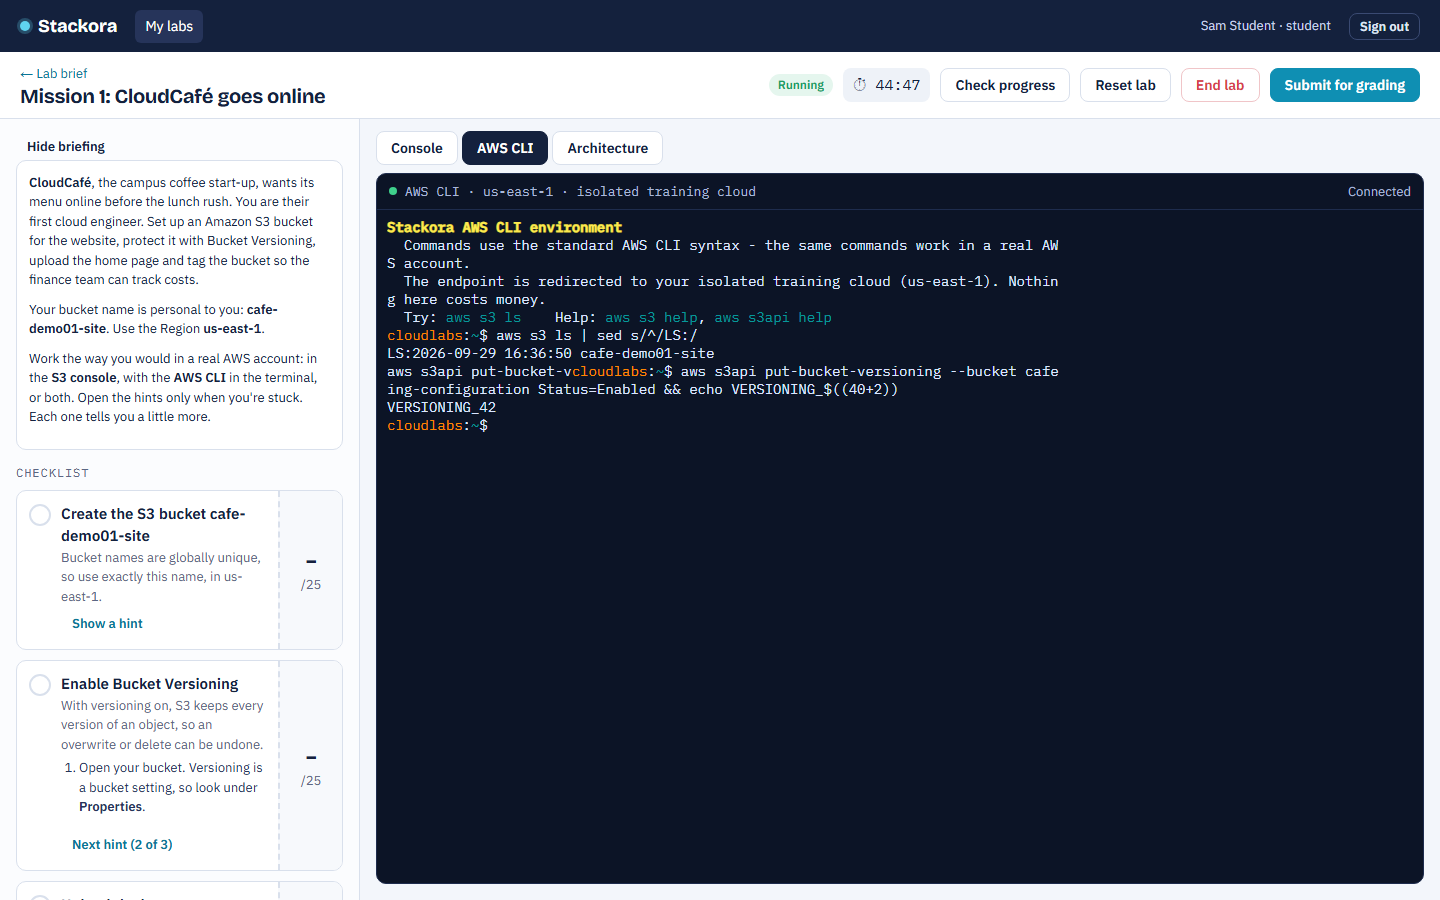
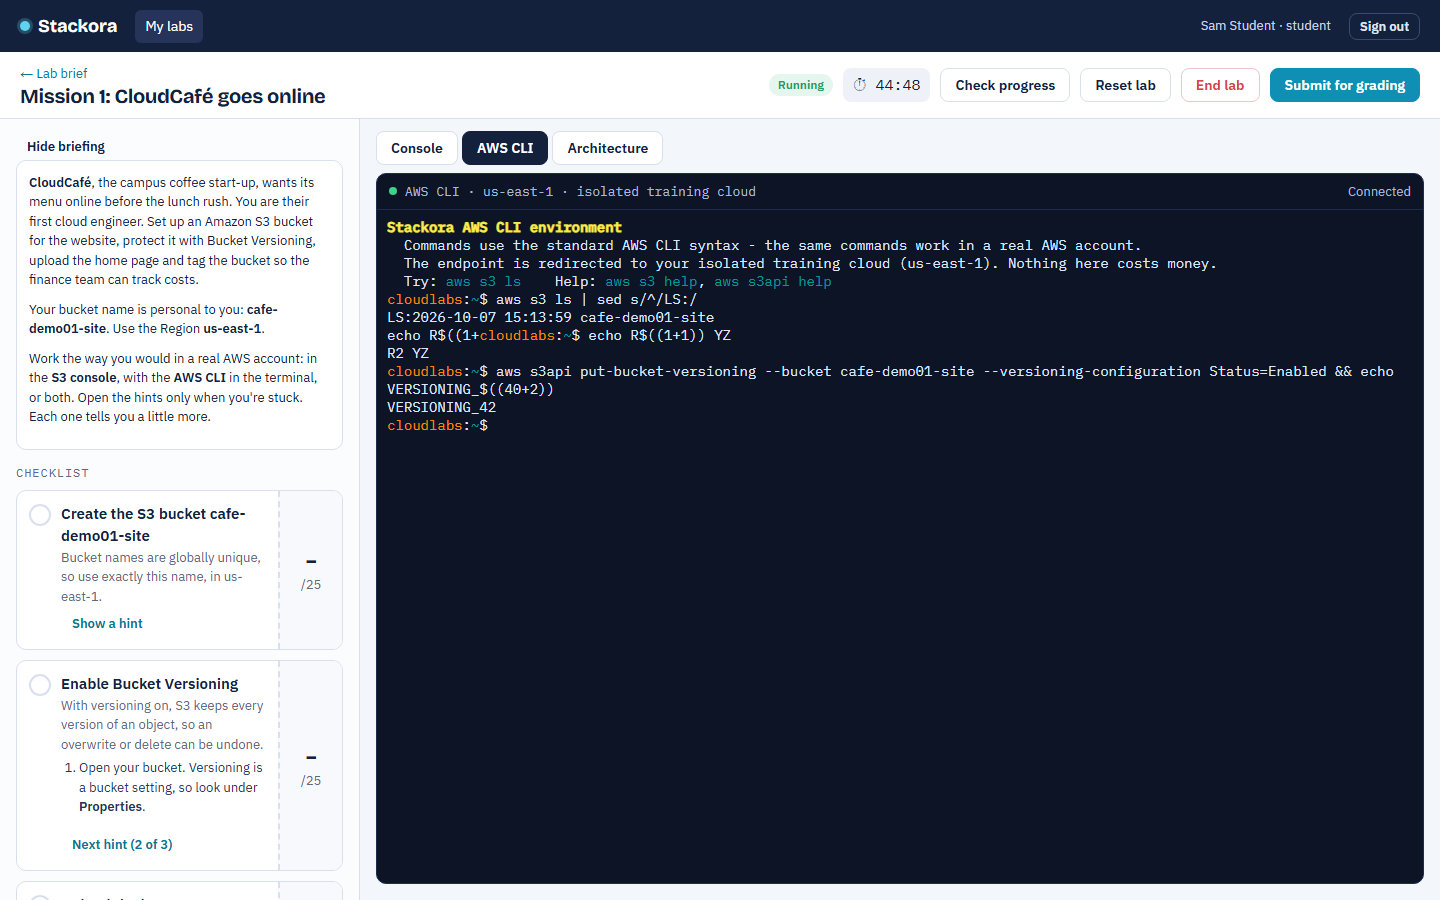
feat(web): upgrade to xterm.js 6 and make the terminal fill its panel
@xterm/xterm 6.0.0 and @xterm/addon-fit 0.11.0. Checking the breaking
changes exposed two problems:

- The rewritten viewport is styled black and no longer painted with the
  theme; it now uses the shared TERM_BG.
- Pre-existing: the terminal never fitted its panel and stayed at the
  default 80x24 (65% of the width), because fit() ran once on mount and then
  only on window resize. A ResizeObserver now refits on any host size
  change, and the padding moved to a wrapper because FitAddon measures the
  border-box host and computed one row too many.

Alt+arrow needs no change: xterm 6 sends ESC[1;3D/C, which bash 5.2's
readline binds by default. journey.spec.ts now checks the Alt+Left word
jump, scrolling back through 120 lines with ordinary wheel notches, and that
the terminal fills its panel without overflow (fails on main: 0.65 < 0.9).

Verified: tsc clean, npm audit 0, full browser E2E 35/35 (STATUS M14).

Changed region(s): [[0.25, 0.2489, 0.9688, 0.4667]]

diff --git a/apps/web/components/terminal.tsx b/apps/web/components/terminal.tsx
@@ -4,6 +4,7 @@ import "@xterm/xterm/css/xterm.css";
 import { api, ApiError } from "@/lib/api";
 
 type Status = "connecting" | "open" | "reconnecting" | "closed";
+const TERM_BG = "#0c1426";
 const FINAL: Record<string, string> = {
   submitted: "Lab submitted. The terminal is closed.",
   reset: "Lab reset. Reconnecting when your fresh sandbox is ready…",
@@ -27,7 +28,7 @@ export function Terminal({ sessionId, active }: { sessionId: string; active: boo
     let timer: ReturnType<typeof setTimeout> | undefined;
     let term: import("@xterm/xterm").Terminal | undefined;
     let fit: import("@xterm/addon-fit").FitAddon | undefined;
-    let onResize: (() => void) | undefined;
+    let sizer: ResizeObserver | undefined;
 
     (async () => {
       const [{ Terminal: XTerm }, { FitAddon }] = await Promise.all([import("@xterm/xterm"), import("@xterm/addon-fit")]);
@@ -35,7 +36,7 @@ export function Terminal({ sessionId, active }: { sessionId: string; active: boo
       const mono = getComputedStyle(document.documentElement).getPropertyValue("--f-mono").trim();
       term = new XTerm({
         fontFamily: `${mono ? `${mono}, ` : ""}Consolas, monospace`, fontSize: 14, cursorBlink: true,
-        theme: { background: "#0c1426", foreground: "#dbe6ff", cursor: "#5fd3f0", selectionBackground: "#26406f" },
+        theme: { background: TERM_BG, foreground: "#dbe6ff", cursor: "#5fd3f0", selectionBackground: "#26406f" },
         scrollback: 3000, allowProposedApi: false,
       });
       fit = new FitAddon();
@@ -44,8 +45,10 @@ export function Terminal({ sessionId, active }: { sessionId: string; active: boo
       fit.fit();
       term.onData((d) => ws?.readyState === WebSocket.OPEN && ws.send(JSON.stringify({ t: "i", d })));
       term.onResize(({ cols, rows }) => ws?.readyState === WebSocket.OPEN && ws.send(JSON.stringify({ t: "r", c: cols, r: rows })));
-      onResize = () => fit?.fit();
-      window.addEventListener("resize", onResize);
+      // Refit whenever the host box changes size (first layout, tab switches, panel and window resizes):
+      // a single fit() on mount can run before the panel has its final size and leave the default 80x24.
+      sizer = new ResizeObserver(() => fit?.fit());
+      sizer.observe(host.current);
       connect();
     })();
 
@@ -87,7 +90,7 @@ export function Terminal({ sessionId, active }: { sessionId: string; active: boo
     return () => {
       disposed = true;
       clearTimeout(timer);
-      if (onResize) window.removeEventListener("resize", onResize);
+      sizer?.disconnect();
       ws?.close();
       term?.dispose();
     };
@@ -106,7 +109,7 @@ export function Terminal({ sessionId, active }: { sessionId: string; active: boo
         {status === "closed" && active && <button className="small" onClick={() => { setNote(null); setNonce((n) => n + 1); }}>Reconnect</button>}
       </div>
       {note && <div className="term-note small">{note}</div>}
-      <div ref={host} className="term-host" data-testid="terminal" />
+      <div className="term-body"><div ref={host} className="term-host" data-testid="terminal" /></div>
       <style>{`
         .term-wrap { display: flex; flex-direction: column; height: 100%; background: var(--terminal); border-radius: var(--radius); overflow: hidden; border: 1px solid #1e2c4d; }
         .term-bar { display: flex; align-items: center; gap: 8px; padding: 8px 12px; color: #aab8d8; border-bottom: 1px solid #1e2c4d; }
@@ -115,8 +118,13 @@ export function Terminal({ sessionId, active }: { sessionId: string; active: boo
         .term-dot.open { background: #3fd08c; } .term-dot.reconnecting, .term-dot.connecting { background: #f2c14e; }
         .term-dot.closed { background: #e5484d; }
         .term-note { background: #1a2542; color: #f2d58a; padding: 6px 12px; }
-        .term-host { flex: 1; min-height: 0; padding: 8px 4px 4px 10px; }
+        /* Padding lives on the wrapper: FitAddon measures the host, and with border-box sizing a padded host
+           would yield one row too many (the last row clipped). */
+        .term-body { flex: 1; min-height: 0; display: flex; padding: 8px 4px 4px 10px; }
+        .term-host { flex: 1; min-height: 0; min-width: 0; }
         .term-host .xterm { height: 100%; }
+        /* xterm.js 6 styles the viewport black and no longer paints it with the theme background */
+        .term-host .xterm .xterm-viewport { background-color: ${TERM_BG}; }
       `}</style>
     </div>
   );

diff --git a/apps/web/e2e/journey.spec.ts b/apps/web/e2e/journey.spec.ts
@@ -70,8 +70,38 @@ test.describe.serial("student journey (GUI + CLI) and instructor evidence", () =
     await expect(page.locator(".xterm-rows")).toContainText("Stackora AWS CLI environment");
     await termRun(page, "aws s3 ls | sed s/^/LS:/", `LS:`);
     await expect(page.locator(".xterm-rows")).toContainText(new RegExp(`LS:.*${BUCKET}`));
+    // Alt+Left jumps back one word. xterm.js 6 sends ESC[1;3D (it no longer rewrites Alt+arrow to Ctrl+arrow)
+    // and bash 5.2's readline binds that by default. The cursor lands before "Z", so the output reads
+    // "R2 YZ" only if the jump happened.
+    await page.keyboard.type("echo R$((1+1)) Z", { delay: 5 });
+    await page.keyboard.press("Alt+ArrowLeft");
+    await page.keyboard.type("Y");
+    await page.keyboard.press("Enter");
+    await expect(page.locator(".xterm-rows")).toContainText("R2 YZ", { timeout: 30_000 });
     await termRun(page, `aws s3api put-bucket-versioning --bucket ${BUCKET} --versioning-configuration Status=Enabled && echo VERSIONING_$((40+2))`, "VERSIONING_42");
     await shot(page, "03-terminal");
+    // Scrollback works with xterm.js 6's rewritten viewport: only visible rows are in the DOM, so early lines
+    // of a long output come back only by scrolling up.
+    await termRun(page, "seq 1 120 | sed 's/^/LINE-/'", "LINE-120");
+    await expect(page.locator(".xterm-rows")).not.toContainText(/LINE-3(?!\d)/);
+    await page.locator(".xterm-screen").hover();
+    await expect(async () => {
+      for (let i = 0; i < 10; i++) await page.mouse.wheel(0, -100);  // ordinary wheel notches
+      await expect(page.locator(".xterm-rows")).toContainText(/LINE-3(?!\d)/, { timeout: 1_000 });
+    }).toPass({ timeout: 30_000 });
+    await expect(async () => {
+      for (let i = 0; i < 10; i++) await page.mouse.wheel(0, 100);
+      await expect(page.locator(".xterm-rows")).toContainText("LINE-120", { timeout: 1_000 });
+    }).toPass({ timeout: 30_000 });
+    // The terminal fills its panel (it used to stay at the default 80x24): the text area spans most of the
+    // terminal box and never overflows it, so no row is clipped.
+    const fill = await page.evaluate(() => {
+      const box = document.querySelector(".xterm")!.getBoundingClientRect();
+      const screen = document.querySelector(".xterm-screen")!.getBoundingClientRect();
+      return { w: screen.width / box.width, overflow: screen.height - box.height };
+    });
+    expect(fill.w).toBeGreaterThan(0.9);
+    expect(fill.overflow).toBeLessThanOrEqual(0);
     await termRun(page, `echo '<h1>CloudCafe</h1>' > index.html && aws s3 cp index.html s3://${BUCKET}/ && echo UPLOADED_$((40+2))`, "UPLOADED_42");
 
     // 3) GUI proves the CLI changes.

diff --git a/docs/STATUS.md b/docs/STATUS.md
@@ -137,6 +137,7 @@ Legend: ☐ todo · ◐ in progress · ☑ done + verified (evidence noted)
 | M11 | Bundled web fonts: `next/font/google` → `next/font/local` with the latin subsets from Fontsource 5.3.0 (IBM Plex Sans 400/500/600, Plex Mono 400/500, Bricolage Grotesque variable) in `apps/web/app/fonts` + their OFL licences; THIRD_PARTY_NOTICES updated | ☑ | Removes the build-time Google Fonts download that failed PR #3's first CI run. `next build` passes **inside a container with `--network none`** (6 woff2 in the output); in the browser all 6 are served by the app (200), faces load, **0 requests to Google**. `tsc` clean. `.gitattributes` marks `*.woff2` binary (the files were already stored byte-identical). **Full browser E2E 35/35** (14.5 min); PR #3 CI all four jobs green — 2026-10-06 |
 | M12 | WebSocket server off the deprecated legacy implementation: API (`entrypoint.sh`) and runner (`Dockerfile`) run uvicorn with `--ws websockets-sansio`; the two in-process test servers too. pytest in both services turns the three legacy-websockets deprecations into **errors** | ☑ | The default `ws=auto` picked the legacy `websockets` server (deprecated since websockets 14; every Docker test run printed it). Our own code already uses the new asyncio client (`websockets.connect`). Guard proven both ways in the API container: `ws="websockets"` → test fails on `websockets.legacy is deprecated`, `ws="websockets-sansio"` passes. Running API: `uvicorn … --ws websockets-sansio`. Runner suite **31 passed** (Docker). API WebSocket files (`test_integration_docker`, `test_lab_preview`, `test_fleet`) **22 passed** (a first run failed `test_two_real_runners…` 15 s after runner2 started; passes alone and in the full re-run). E2E journey/fleet/lab-builder **8 passed**, then the **full browser E2E 35/35** (13.0 min, runner-local-2 registered) — 2026-10-07. Follow-up, not done: Starlette 1.x warns that its `TestClient` wants `httpx2` (runner tests only) |
 | M13 | Gateway on the supported **nginx stable line**: `nginx:1.27-alpine` → `nginx:1.30-alpine` (1.30.5); production inherits it | ☑ | 1.27 no longer receives fixes (nginx patches only mainline 1.31 and stable 1.30), and in production the gateway is the only internet-facing component (TLS, API, terminal WebSockets). `nginx -t` clean with no warnings on both configs. **Live production-config smoke test on 1.30** with a throwaway certificate on the stack network: `/healthz` and `/login` 200 over **HTTP/2**, `/api/…` 200, HTTP → 301 `https://…`, HSTS / nosniff headers present, version hidden, TLS ≤ 1.1 refused. Dev gateway recreated on 1.30.5. **Full browser E2E 35/35** through the 1.30 gateway (14.1 min, runner-local-2 registered) — 2026-10-07 |
+| M14 | **xterm.js 6** (`@xterm/xterm` 6.0.0, `@xterm/addon-fit` 0.11.0) + two terminal fixes it exposed | ☑ | Breaking changes checked against `components/terminal.tsx`: no removed option in use (`overviewRulerWidth`, `windowsMode`, `fastScrollModifier`, canvas renderer). Alt+arrow: xterm 6 sends `ESC[1;3D/C` (no Ctrl rewrite) and bash 5.2's readline binds that by default (`bind -q backward-word`), so no image change. **Found and fixed:** (1) the rewritten viewport is styled black and no longer painted with the theme — now set from the shared `TERM_BG`; (2) **pre-existing on `main`**: the terminal never fitted its panel and stayed at the default **80×24** (65% of the width, 24 of ~36 rows) because `fit()` ran once on mount and then only on *window* resize — now a `ResizeObserver` refits on any host size change, and the padding moved to a wrapper because FitAddon measures the border-box host and computed one row too many (last row clipped by 5 px). New E2E assertions in `journey.spec.ts`: Alt+Left word jump, scrolling back through 120 lines with ordinary wheel notches and down again, and the terminal filling its panel without overflow — the fill check **fails on `main`** (0.65 < 0.9), so it guards the bug. `tsc` clean; `npm audit` 0. **Full browser E2E 35/35** (15.5 min, runner-local-2 registered); `docs/screenshots/03-terminal.png` regenerated (full-width terminal) — 2026-10-07 |
 
 ## Implementation decisions log
 - **D1 — Sandbox networking.** Docker can't publish ports from `internal: true` networks. The runner
